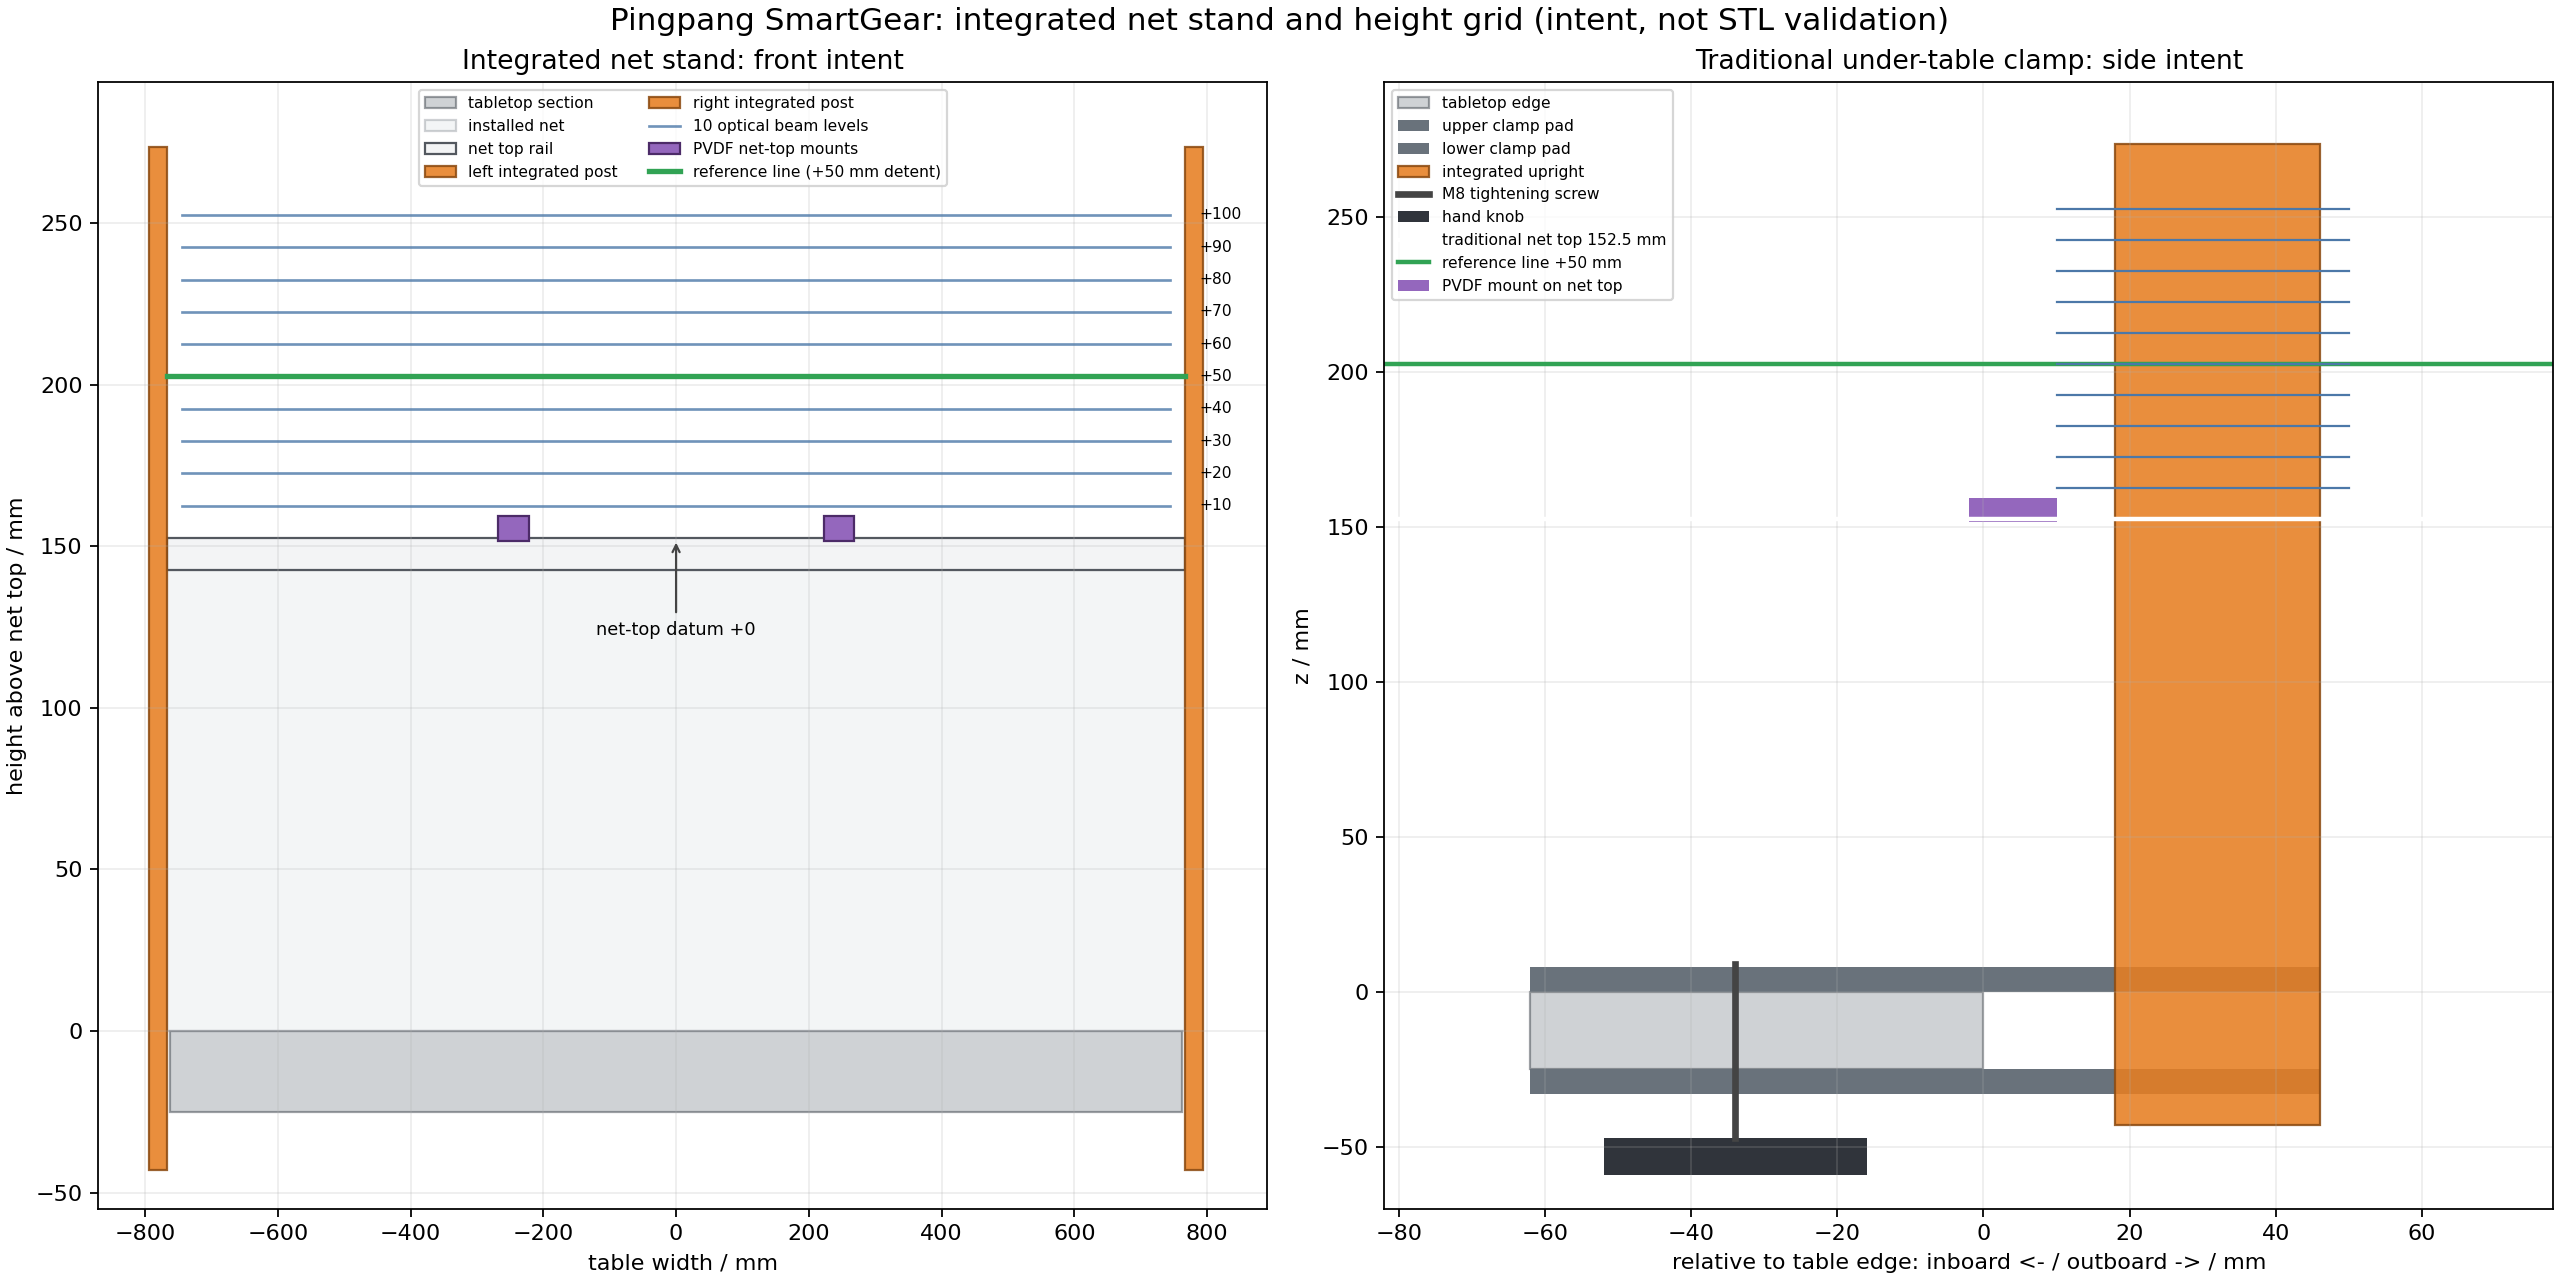
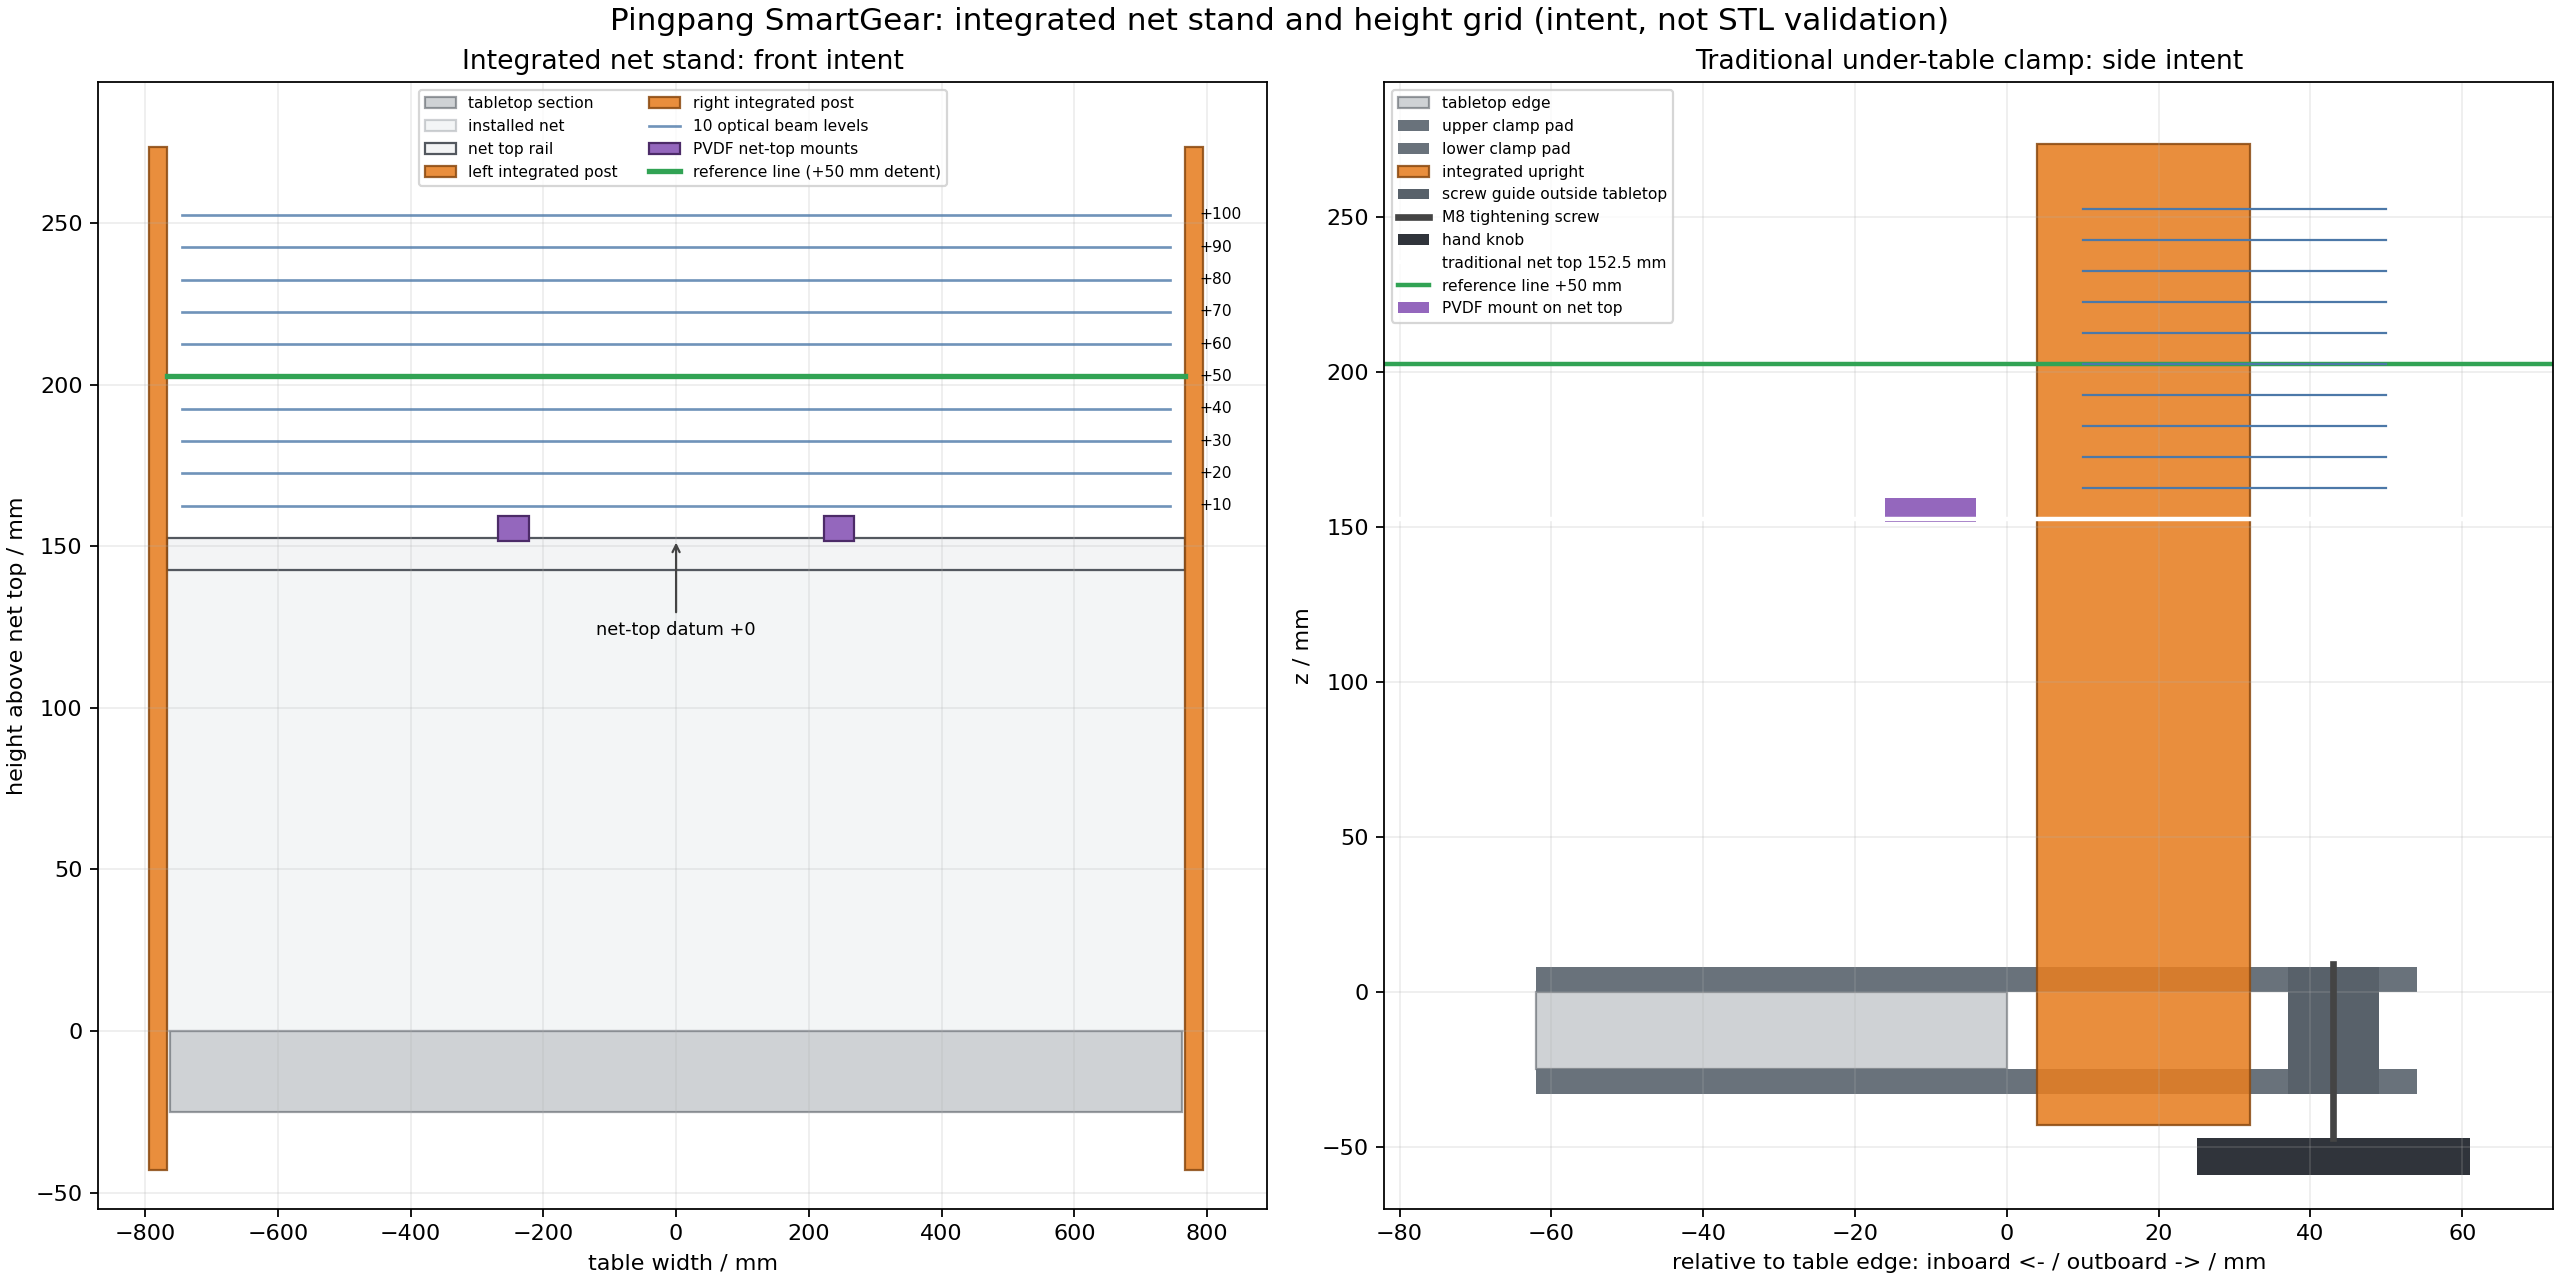
🛠 固化免打孔桌下夹持

diff --git a/hardware/cad/preview.py b/hardware/cad/preview.py
@@ -21,6 +21,7 @@ TABLE_THICKNESS = 25.0
 TABLE_EDGE = TABLE_WIDTH / 2
 POST_OFFSET = 18.0
 POST_WIDTH = 28.0
+CLAMP_OUTER_EXTENSION = 22.0
 POST_CENTER = TABLE_EDGE + POST_OFFSET
 POST_BOTTOM = -43.0
 NET_HEIGHT = 152.5
@@ -144,6 +145,8 @@ def draw_front(ax) -> None:
 
 def draw_side(ax) -> None:
     # 以右侧台边为 x=0，正方向是桌外；画出传统网架式上下夹持面。
+    post_x0 = POST_OFFSET - POST_WIDTH / 2
+    clamp_pad_end = POST_OFFSET + POST_WIDTH / 2 + CLAMP_OUTER_EXTENSION
     ax.add_patch(
         Rectangle(
             (-62, -TABLE_THICKNESS),
@@ -155,11 +158,11 @@ def draw_side(ax) -> None:
             label="tabletop edge",
         )
     )
-    ax.add_patch(Rectangle((-62, 0), 108, 8, facecolor="#69727b", label="upper clamp pad"))
-    ax.add_patch(Rectangle((-62, -33), 108, 8, facecolor="#69727b", label="lower clamp pad"))
+    ax.add_patch(Rectangle((-62, 0), clamp_pad_end + 62, 8, facecolor="#69727b", label="upper clamp pad"))
+    ax.add_patch(Rectangle((-62, -33), clamp_pad_end + 62, 8, facecolor="#69727b", label="lower clamp pad"))
     ax.add_patch(
         Rectangle(
-            (POST_OFFSET, POST_BOTTOM),
+            (post_x0, POST_BOTTOM),
             POST_WIDTH,
             POST_TOP - POST_BOTTOM,
             facecolor="#e67e22",
@@ -168,7 +171,8 @@ def draw_side(ax) -> None:
             label="integrated upright",
         )
     )
-    screw_x = -34
+    screw_x = POST_OFFSET + POST_WIDTH / 2 + CLAMP_OUTER_EXTENSION / 2
+    ax.add_patch(Rectangle((screw_x - 6, -33), 12, 41, facecolor="#58616a", label="screw guide outside tabletop"))
     ax.plot([screw_x, screw_x], [-47, 9], color="#444", linewidth=3, label="M8 tightening screw")
     ax.add_patch(Rectangle((screw_x - 18, -59), 36, 12, facecolor="#30343b", label="hand knob"))
     ax.axhline(NET_HEIGHT, color="#ffffff", linewidth=2, label="traditional net top 152.5 mm")
@@ -183,14 +187,14 @@ def draw_side(ax) -> None:
         )
     ax.add_patch(
         Rectangle(
-            (POST_OFFSET - 20, NET_HEIGHT - 1),
+            (post_x0 - 20, NET_HEIGHT - 1),
             12,
             8,
             facecolor="#9467bd",
             label="PVDF mount on net top",
         )
     )
-    ax.set_xlim(-82, 78)
+    ax.set_xlim(-82, clamp_pad_end + 18)
     ax.set_ylim(-70, POST_TOP + 20)
     ax.set_title("Traditional under-table clamp: side intent")
     ax.set_xlabel("relative to table edge: inboard <- / outboard -> / mm")

diff --git a/hardware/cad/validate_net_stand.py b/hardware/cad/validate_net_stand.py
@@ -68,6 +68,7 @@ def probe_parameters(openscad: str, output_dir: Path) -> dict[str, float]:
         "net_span",
         "post_top",
         "sensor_x",
+        "clamp_screw_x",
     }
     missing = required - parameters.keys()
     if missing:
@@ -76,6 +77,8 @@ def probe_parameters(openscad: str, output_dir: Path) -> dict[str, float]:
         raise RuntimeError(f"unexpected optical grid parameters: {parameters}")
     if not (parameters["post_center_x"] > parameters["table_width"] / 2):
         raise RuntimeError(f"post is not outside table edge: {parameters}")
+    if not (parameters["clamp_screw_x"] > parameters["table_width"] / 2):
+        raise RuntimeError(f"clamp screw is not outside tabletop edge: {parameters}")
     if parameters["net_span"] <= parameters["table_width"]:
         raise RuntimeError(f"net span does not bridge the table: {parameters}")
     return parameters

diff --git a/docs/implementation-audit.zh-CN.md b/docs/implementation-audit.zh-CN.md
@@ -6,7 +6,7 @@
 
 | 范围 | 当前证据 |
 | --- | --- |
-| 当前内置球网支架 CAD | `hardware/cad/net_stand.scad` 支持 `assembly`、左右完整支架、立柱、传统桌下夹持、网顶承载条、10 路光学导轨、PVDF 安装座和标定规；首轮参数为球台宽度 `1525 mm`、网顶 `152.5 mm`、光栅 `+10…+100 mm`、M8 竖直夹紧螺杆；`validate_net_stand.py` 编译当前 PART、检查左右/光学镜像、参数探针、装配包络，并拒绝 9 路光栅和 +55 mm 非法参考高度。 |
+| 当前内置球网支架 CAD | `hardware/cad/net_stand.scad` 支持 `assembly`、左右完整支架、立柱、免打孔传统桌下夹持、网顶承载条、10 路光学导轨、PVDF 安装座和标定规；首轮参数为球台宽度 `1525 mm`、网顶 `152.5 mm`、光栅 `+10…+100 mm`、M8 竖直夹紧螺杆；`validate_net_stand.py` 编译当前 PART、检查左右/光学镜像、参数探针、夹紧螺杆位于台边外侧、装配包络，并拒绝 9 路光栅和 +55 mm 非法参考高度。 |
 | 历史外挂 X 夹具 CAD | `hardware/cad/net_post_x_clamp.scad` 和旧验证脚本保留在历史边界，用于设计回溯与旧几何回归；它不再是当前机械主线。 |
 | CAD 几何关系 | `validate_net_stand.py` 从当前 OpenSCAD 参数探针读取网顶高度、光栅档位、立柱外置位置、网跨度和支架顶部余量；`preview.py`、`render_net_stand_preview.py` 提供当前内置支架的正视/侧面和 OpenSCAD 实体可视证据。 |
 | 光栅业务 | 10 位 `beam_mask`、最低/最高命中光束、安静结束、超时边界、逐通道位图和高度区间均有主机测试；采集器保留跨事件时间边界，事件结束后迟到的旧边沿会形成 invalid/unknown，不会伪造新的有效高度。 |

diff --git a/docs/validation-matrix.zh-CN.md b/docs/validation-matrix.zh-CN.md
@@ -7,7 +7,7 @@
 | 编号 | 场景 | 操作/输入 | 预期证据 | 状态 |
 | --- | --- | --- | --- | --- |
 | M-01 | 内置支架重复安装 | 同一球台边缘用左右支架拆下、重新从桌下夹紧 10 次 | 上下接触面完整，M8 旋钮行程足够，左右立柱安装位置/滑移记录可复核 | 待实物 |
-| M-02 | 传统桌下夹持 | 用与目标球台相同厚度的样块，从松开到夹紧完整操作 | 上下夹持面不顶坏台面，立柱不明显倾斜，螺杆/旋钮/软垫无卡滞或脱落 | 待实物 |
+| M-02 | 免打孔传统桌下夹持 | 用与目标球台相同厚度的样块，从松开到夹紧完整操作 | 螺杆位于台边外侧；上下夹持面不顶坏台面，立柱不明显倾斜，螺杆/旋钮/软垫无卡滞或脱落 | 待实物 |
 | M-03 | 替换式球网基准 | 安装左右支架、网顶承载条、真实网布、PVDF 座和光学导轨 | 网顶为 `152.5 mm` 首轮基准，左右立柱平行，网布张力不明显拉偏支架，参考线只落在 10 mm 档位 | 待实物 |
 | B-01 | 正常过网 | 球命中一个或多个光栅通道，无 PVDF 触发 | `clean_over`，`beam_mask`、高度区间、时间戳完整 | 主机测试 |
 | B-02 | 擦网后过网 | PVDF 触发后在窗口内命中光栅 | `touch_over`，左右峰值/能量和可由 `waveform_ref` 查到的原始帧保留 | 主机测试 |

diff --git a/hardware/README.md b/hardware/README.md
@@ -9,4 +9,4 @@
 
 当前打印件由 `cad/net_stand.scad` 这一份参数源统一导出：它包含左右立柱、传统桌下上下夹持面、网顶承载条、光学模块安装位和 PVDF 夹片安装位。打印数量、标准件和非打印装配边界见 [`cad/print-manifest.zh-CN.md`](cad/print-manifest.zh-CN.md)。
 
-首版按 `1525 mm` 球台宽度、`25 mm` 台面厚度和 `152.5 mm` 网顶高度起模；最终兼容范围必须以实物测量、夹持力、滑移和网布张力记录为依据。当前不包含相机作为本体测量链路；外部视频设备只用于后续时间戳回放复核。原 `cad/net_post_x_clamp.scad` 是保留的外挂 X 夹具历史方案，不是当前主线。
+首版按 `1525 mm` 球台宽度、`25 mm` 台面厚度和 `152.5 mm` 网顶高度起模；当前支架免打孔，夹紧螺杆位于台边外侧，仅从上下接触面夹住台面边缘。最终兼容范围必须以实物测量、夹持力、滑移和网布张力记录为依据。当前不包含相机作为本体测量链路；外部视频设备只用于后续时间戳回放复核。原 `cad/net_post_x_clamp.scad` 是保留的外挂 X 夹具历史方案，不是当前主线。

diff --git a/docs/net-height-device-design.zh-CN.md b/docs/net-height-device-design.zh-CN.md
@@ -47,7 +47,7 @@ BLE、Wi-Fi、WebSocket、MQTT、SSE、配网和 App 多设备基础设施不在
 每侧支架由以下部分组成：
 
 - 立柱主体：从桌下夹持区域一直延伸到最高光栅模块上方，顶部承载网顶承载条和光学导轨；
-- 传统桌下夹持：上、下接触面跨过台面边缘，外侧 C 形受力路径和竖直 M8 螺杆负责夹紧；接触软垫、螺纹件和夹紧力仍需实测；
+- 传统桌下夹持：上、下接触面跨过台面边缘，外侧 C 形受力路径和竖直 M8 螺杆负责夹紧；螺杆与导向座位于台边外侧，整个支架免打孔安装，不允许螺杆穿过球台；接触软垫、螺纹件和夹紧力仍需实测；
 - 网顶承载条：连接左右立柱，支撑真实网布/白边；网布在装配时就属于本支架的一部分；
 - PVDF 安装座：左右各一处，固定在网顶承载条附近，薄膜可拆换，线束沿立柱走线；
 - 光学导轨：左右立柱内侧安装发射/接收模块包络，装配时使用参考线和标定规校准。

diff --git a/hardware/cad/print-manifest.zh-CN.md b/hardware/cad/print-manifest.zh-CN.md
@@ -1,6 +1,6 @@
 # 内置式球网支架首样打印与装配清单
 
-这份清单只说明当前 `net_stand.scad` 的导出关系，不代表 PETG 实物已经打印、桌下夹持力已经合格，或光学/电气已经接通。打印前仍需按实际喷嘴、层高、PETG 收缩、球台厚度和标准件尺寸复核。
+这份清单只说明当前 `net_stand.scad` 的导出关系，不代表 PETG 实物已经打印、桌下夹持力已经合格，或光学/电气已经接通。当前结构是免打孔夹持：螺杆和导向座在台边外侧，只通过上下接触面夹住台面；不得把球台打孔作为安装前提。打印前仍需按实际喷嘴、层高、PETG 收缩、球台厚度和标准件尺寸复核。
 
 ## 当前主线：替换传统球网
 

diff --git a/hardware/cad/README.md b/hardware/cad/README.md
@@ -1,6 +1,6 @@
 # OpenSCAD CAD
 
-当前机械主线是 `net_stand.scad`：直接做出一套替换传统球网的内置式球网支架，网布和网顶 PVDF 振动监测预装在支架上，左右端通过传统的桌下上下夹持面固定到球台。它不再依赖原球网立柱，也不再使用外挂式 X 夹具。
+当前机械主线是 `net_stand.scad`：直接做出一套替换传统球网的内置式球网支架，网布和网顶 PVDF 振动监测预装在支架上，左右端通过传统的桌下上下夹持面固定到球台。夹紧螺杆和导向座全部位于台边外侧，只夹台面边缘，不要求也不允许给球桌打孔。它不再依赖原球网立柱，也不再使用外挂式 X 夹具。
 
 ## 当前参数源：`net_stand.scad`
 
